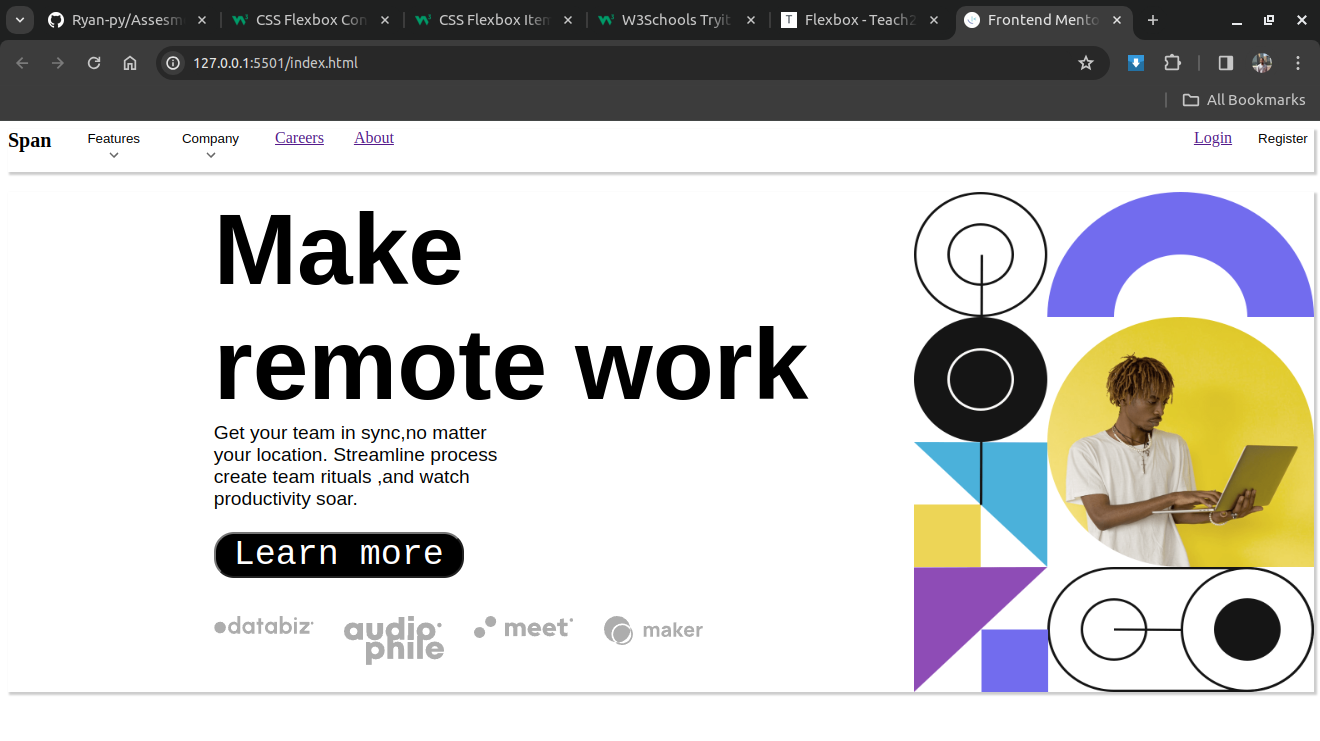
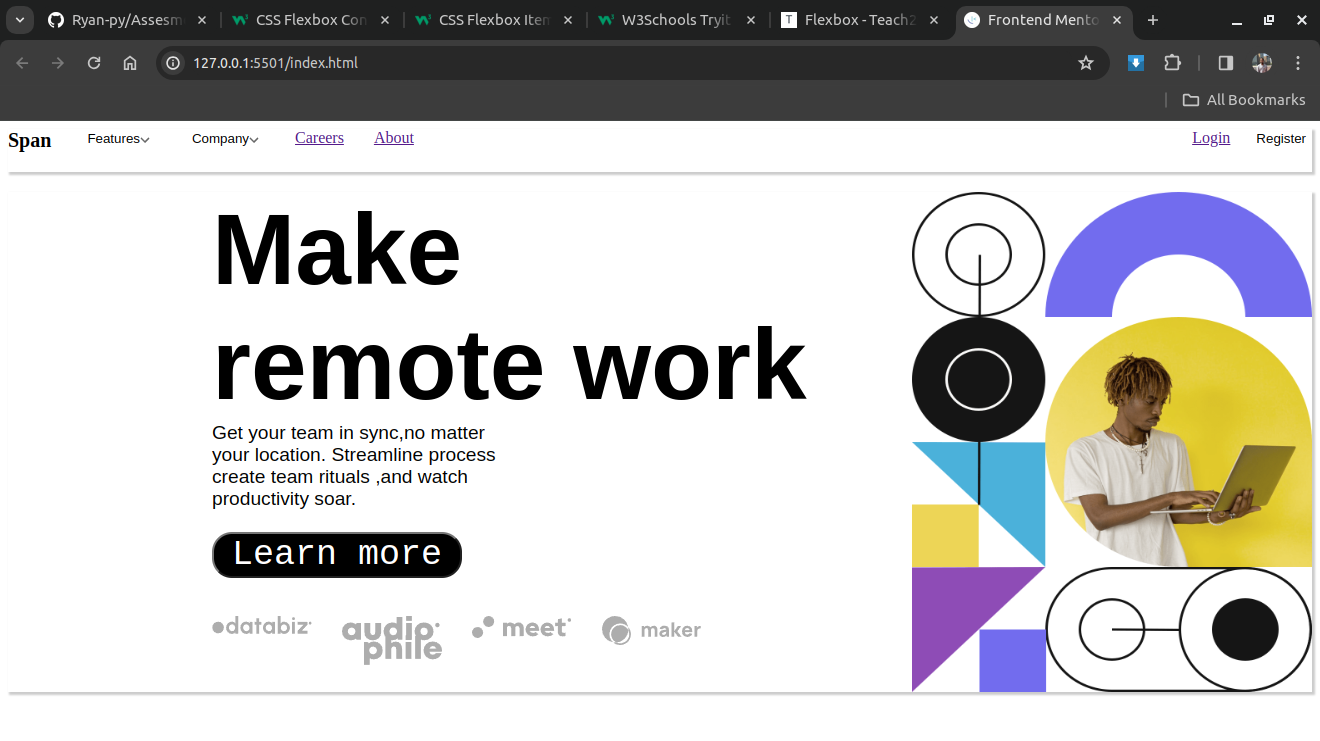
with README

diff --git a/index.css b/index.css
@@ -1,11 +1,11 @@
 img {
     width: 10px;
 }
-
+/* 
 body {
     display: flex;
 
-}
+} */
 
 .main {
     display: flex;
@@ -15,8 +15,7 @@ body {
 .head {
     display: flex;
     flex-direction: row;
-    justify-content: flex-start;
-    gap: 800px;
+    justify-content: space-between;
     box-shadow: 2px 2px 2px 1px rgba(0, 0, 0, 0.2);
     margin-bottom: 20px;
     button{
@@ -54,7 +53,7 @@ body {
 .left {
     display: flex;
     flex-direction: column;
-    margin-left: 20px;
+    margin-left: 30px;
     align-items: flex-start;
     width: 700px;
 
